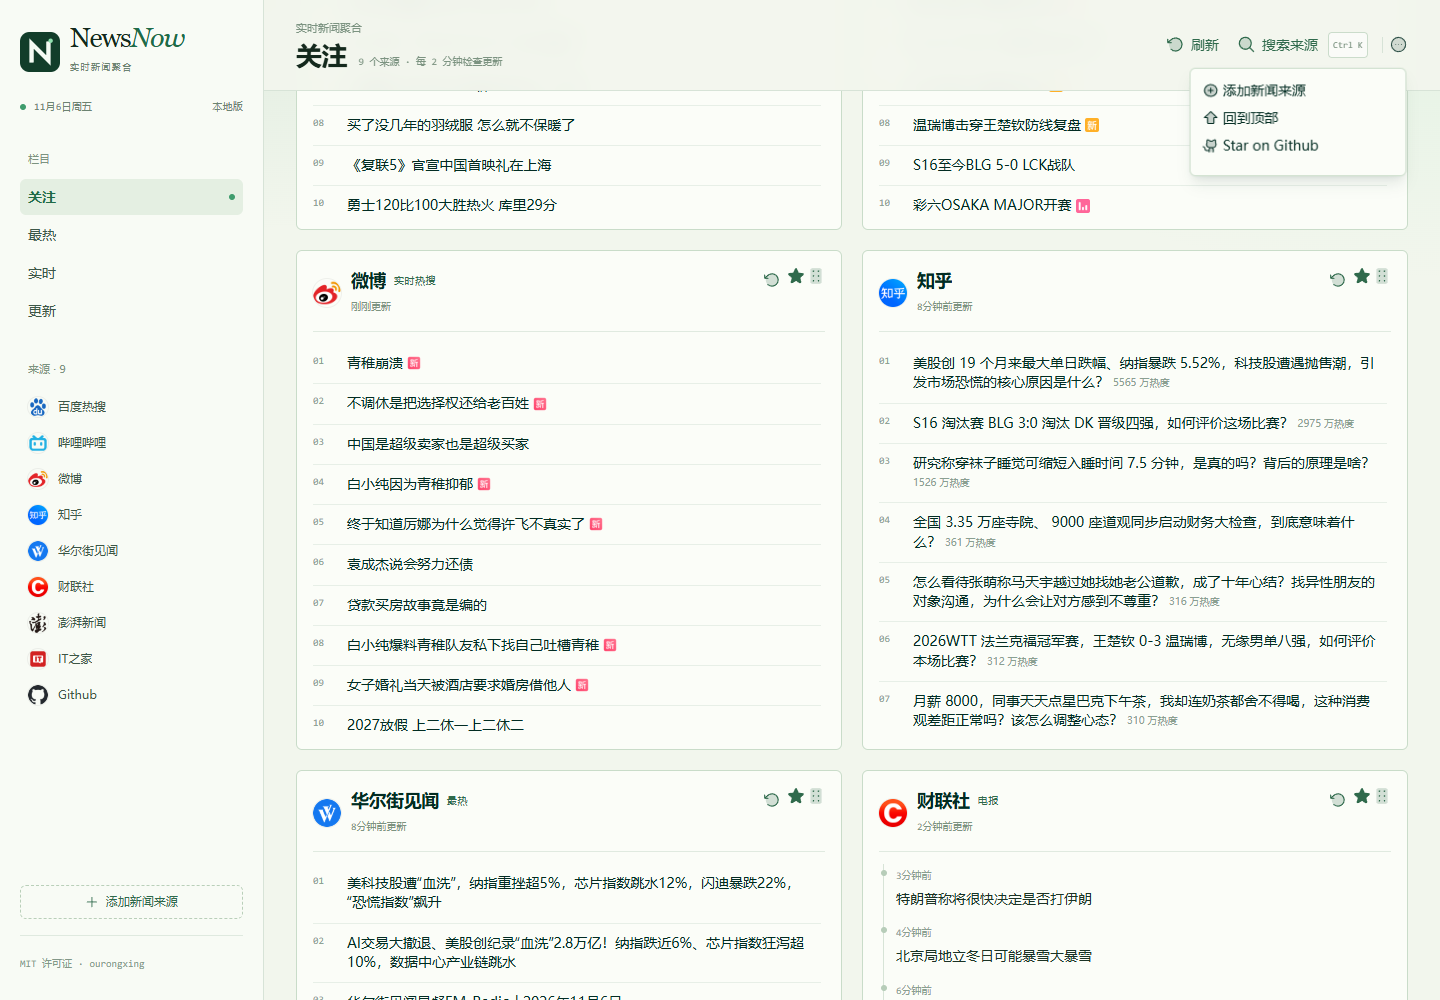
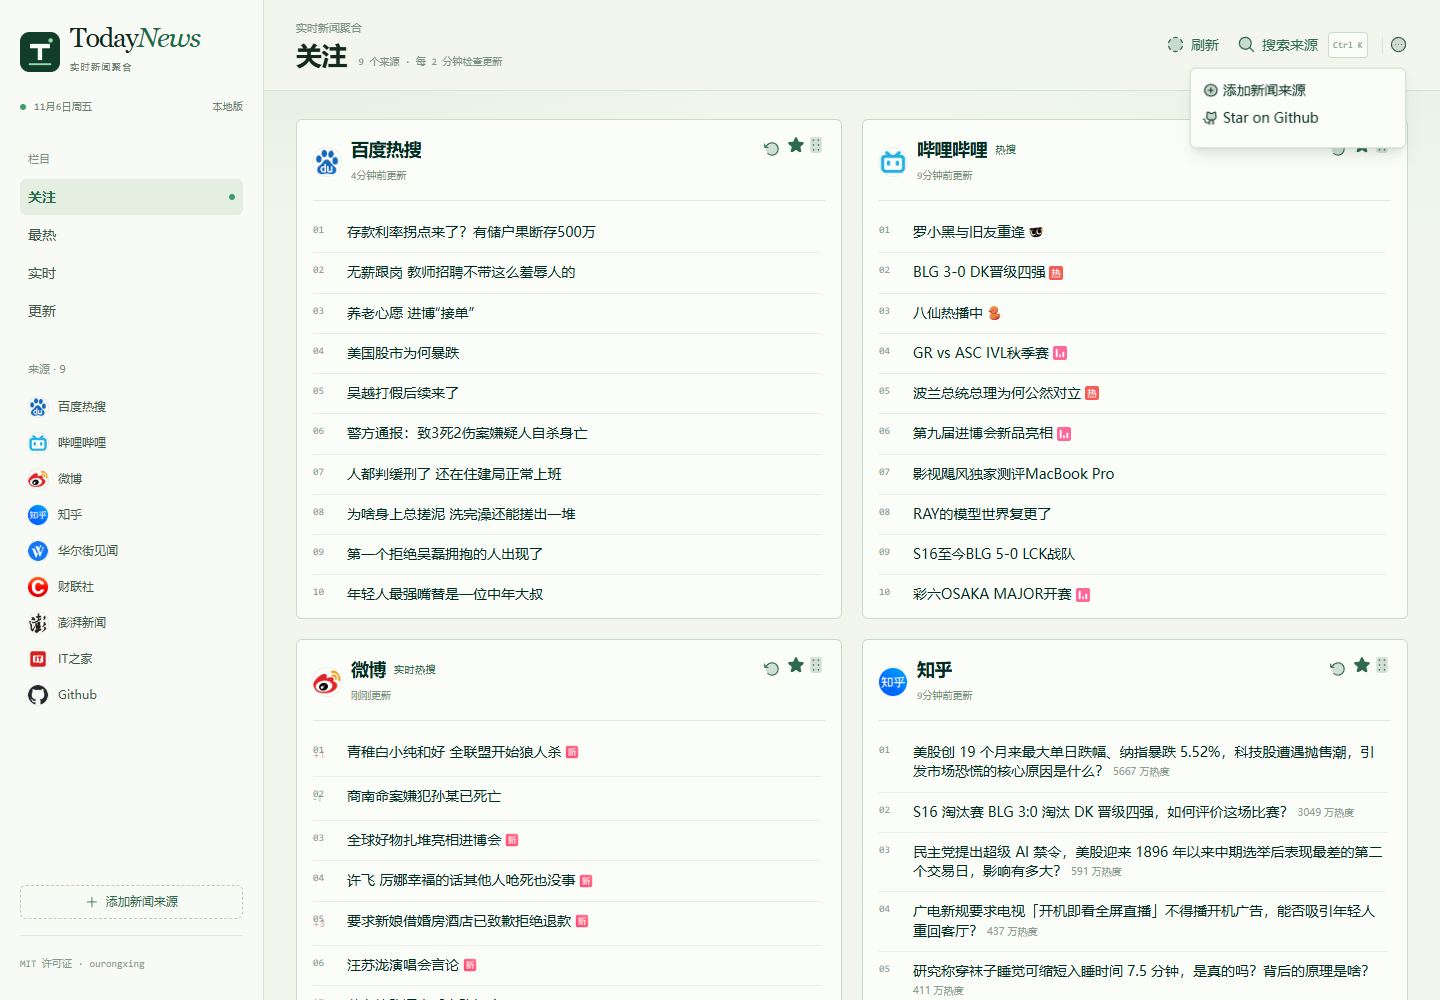
文档：README 路线图旧宣传图换成最新来源索引截图，重拍搜索/菜单截图

diff --git a/README.md b/README.md
@@ -113,7 +113,7 @@ For detailed instructions on how to add new sources, see [CONTRIBUTING.md](CONTR
 - Expand **data sources** to cover global news in multiple languages.
 
 **_release when ready_**
-![](https://testmnbbs.oss-cn-zhangjiakou.aliyuncs.com/pic/20250328172146_rec_.gif?x-oss-process=base_webp)
+![](./screenshots/local/search.png)
 
 ## Contributing
 
